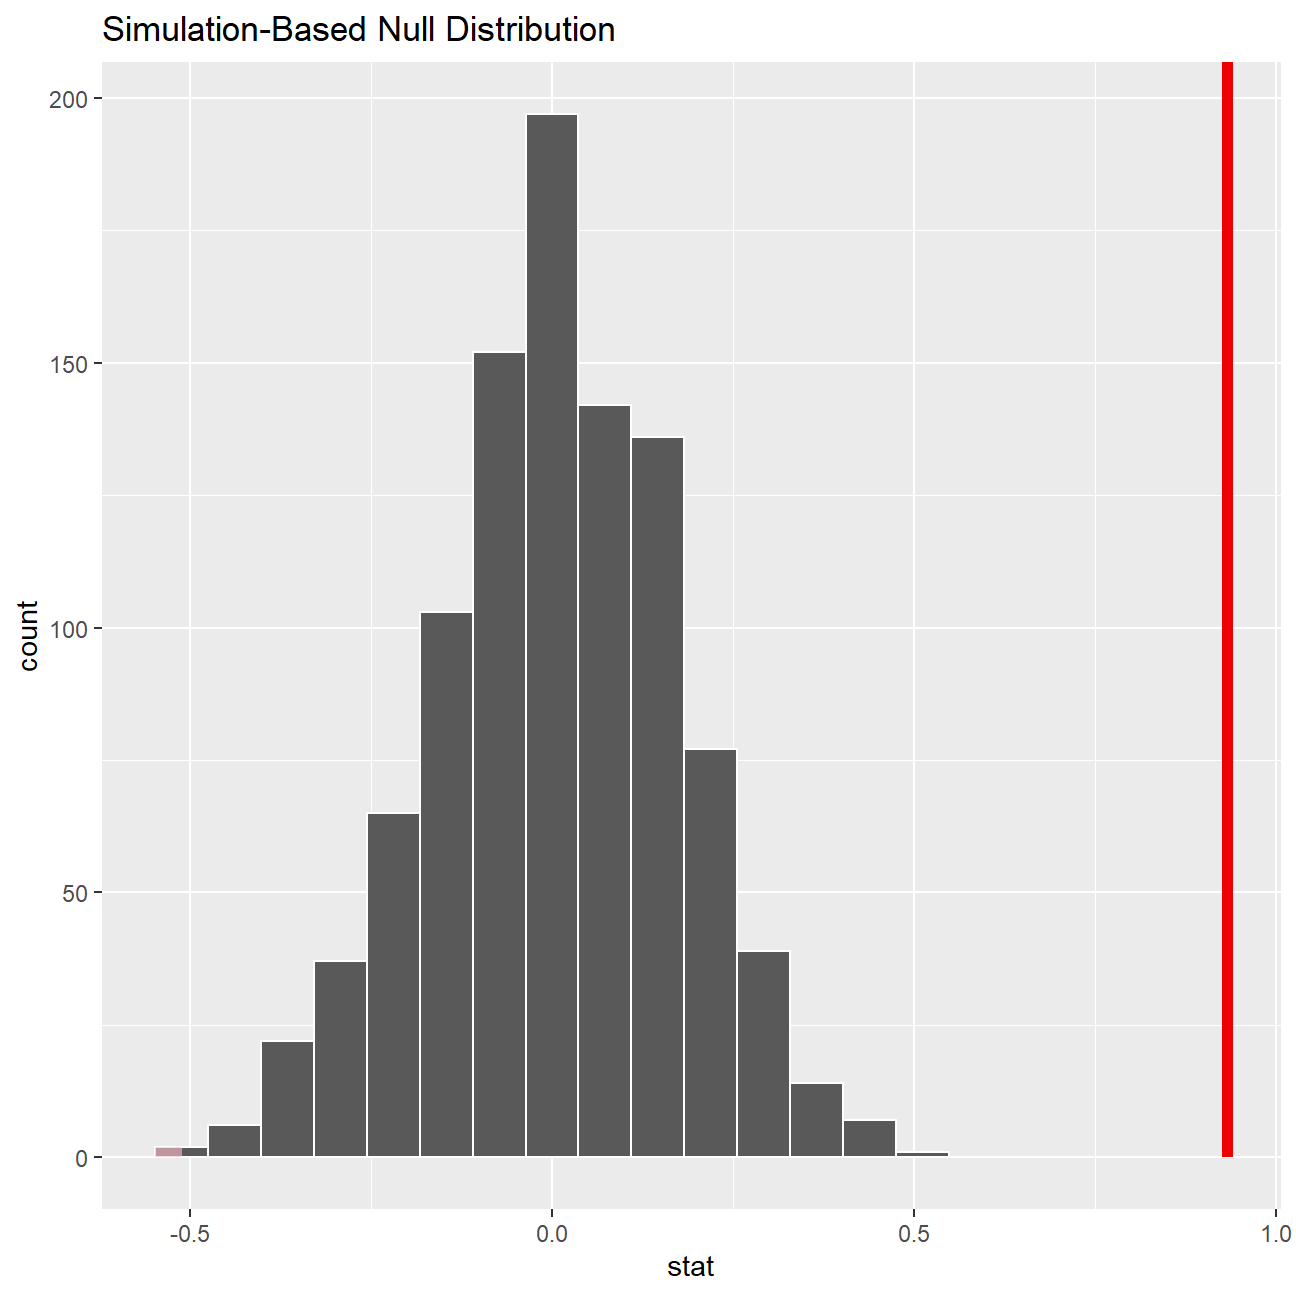
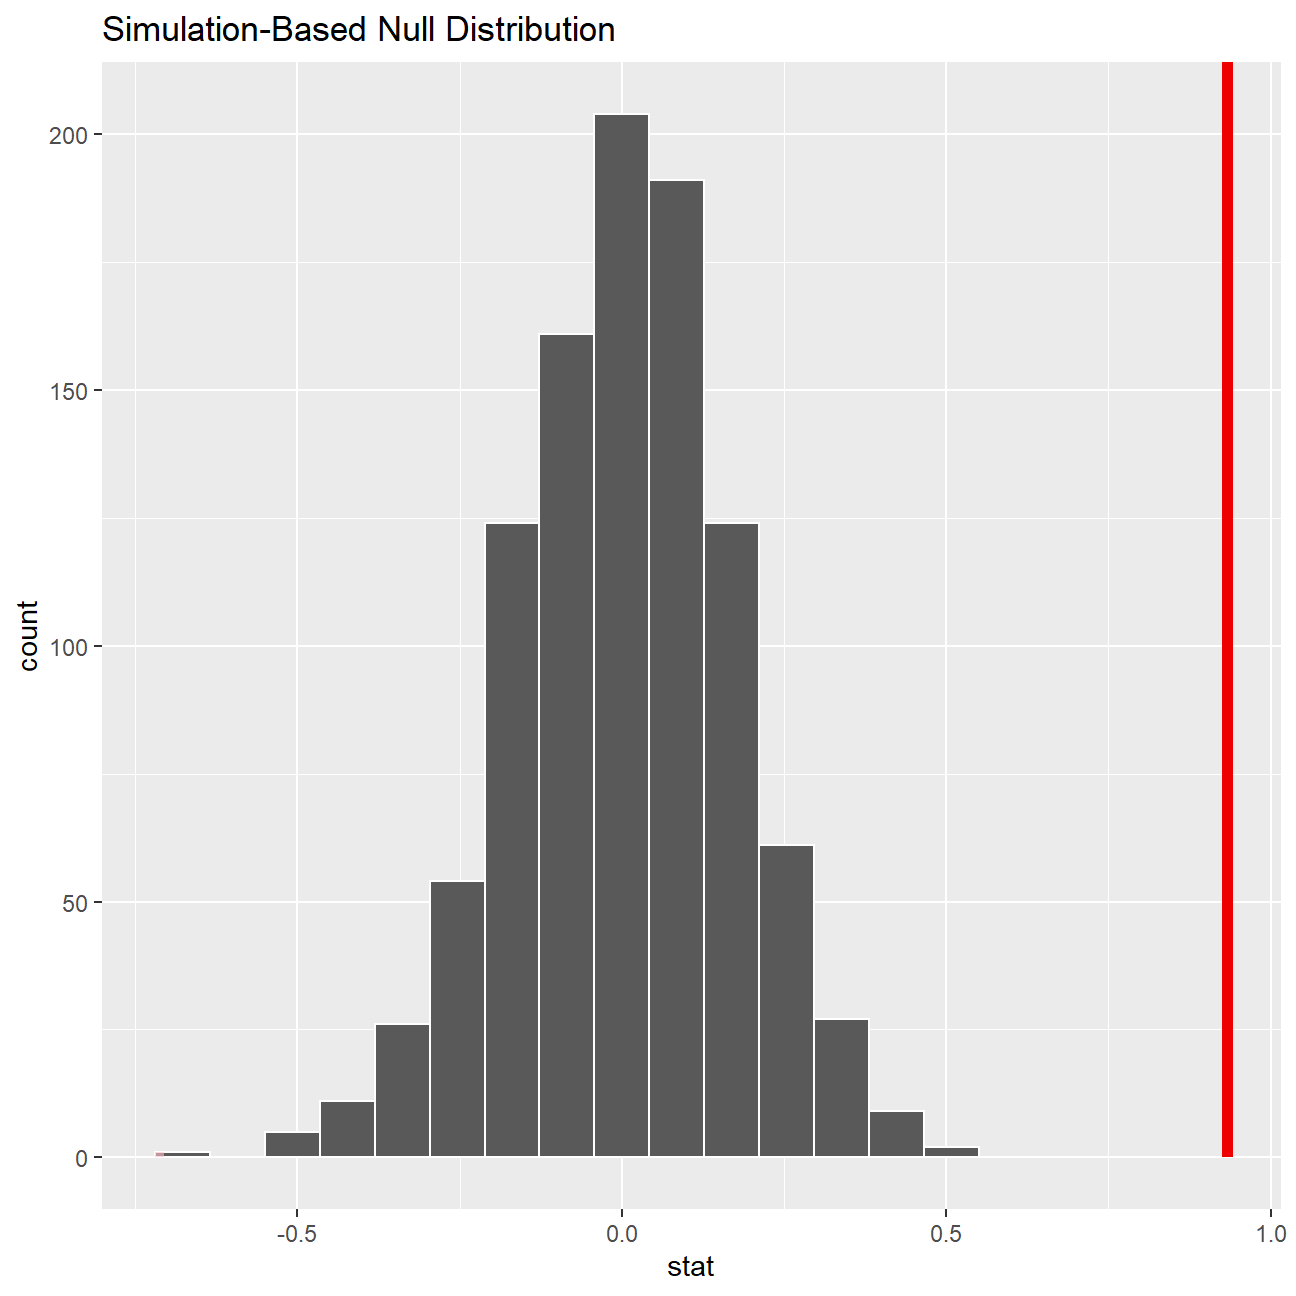
slug

diff --git a/content/projects/project3/index.html b/content/projects/project3/index.html
@@ -5,7 +5,7 @@ description: STEVEN SPIELBERG VS TIM BURTON
 image: IMDB.jpg
 draft: no
 keywords: ''
-slug: "index"
+slug: index
 categories:
 - ""
 - ""
@@ -354,16 +354,16 @@ null_dist</code></pre>
 <pre><code>## # A tibble: 1,000 x 2
 ##    replicate    stat
 ##        &lt;int&gt;   &lt;dbl&gt;
-##  1         1 -0.158 
-##  2         2  0.0733
-##  3         3  0.0317
-##  4         4 -0.363 
-##  5         5 -0.228 
-##  6         6  0.0473
-##  7         7 -0.0644
-##  8         8 -0.124 
-##  9         9 -0.148 
-## 10        10  0.125 
+##  1         1 -0.184 
+##  2         2 -0.0566
+##  3         3  0.0239
+##  4         4 -0.116 
+##  5         5  0.224 
+##  6         6 -0.0514
+##  7         7  0.154 
+##  8         8 -0.0722
+##  9         9  0.0889
+## 10        10  0.185 
 ## # ... with 990 more rows</code></pre>
 <pre class="r"><code>ggplot(data = null_dist, aes(x = stat)) +
   geom_histogram()</code></pre>
